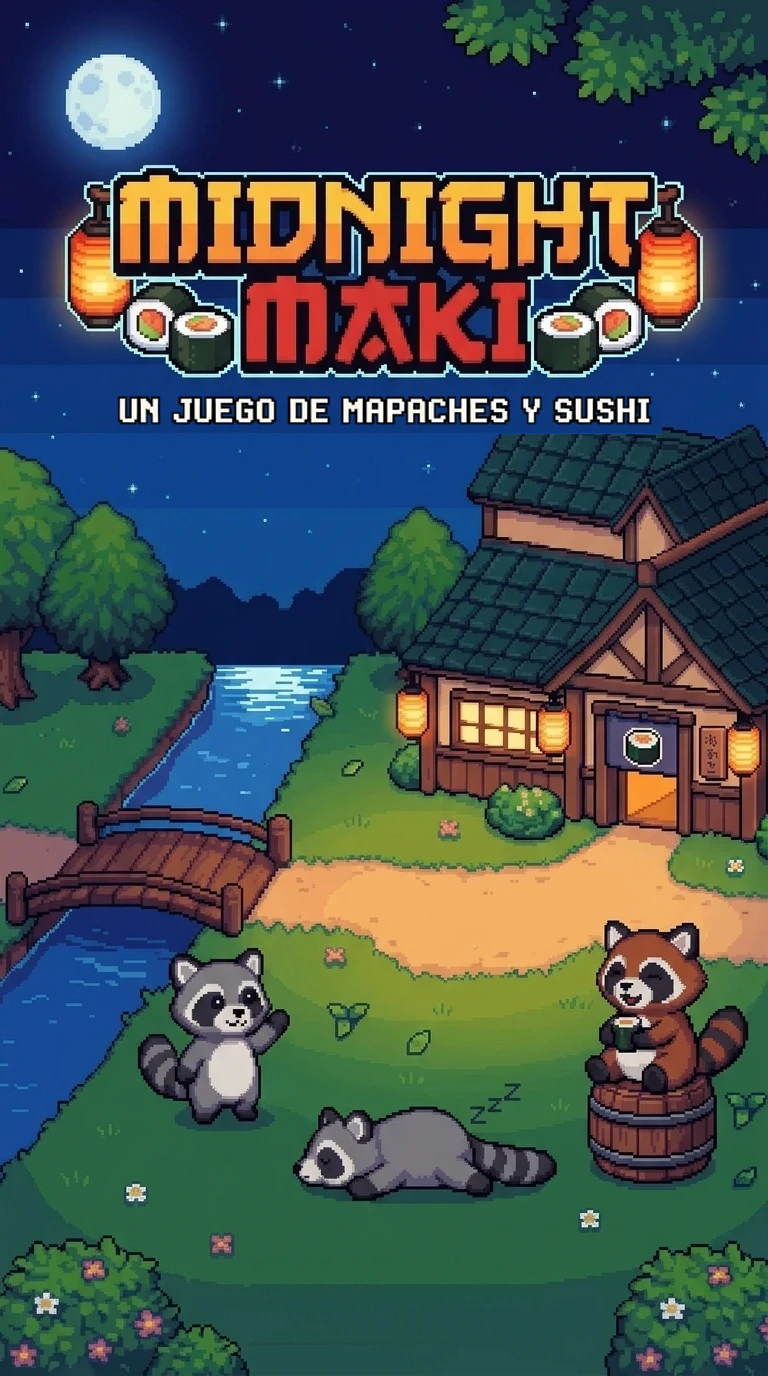
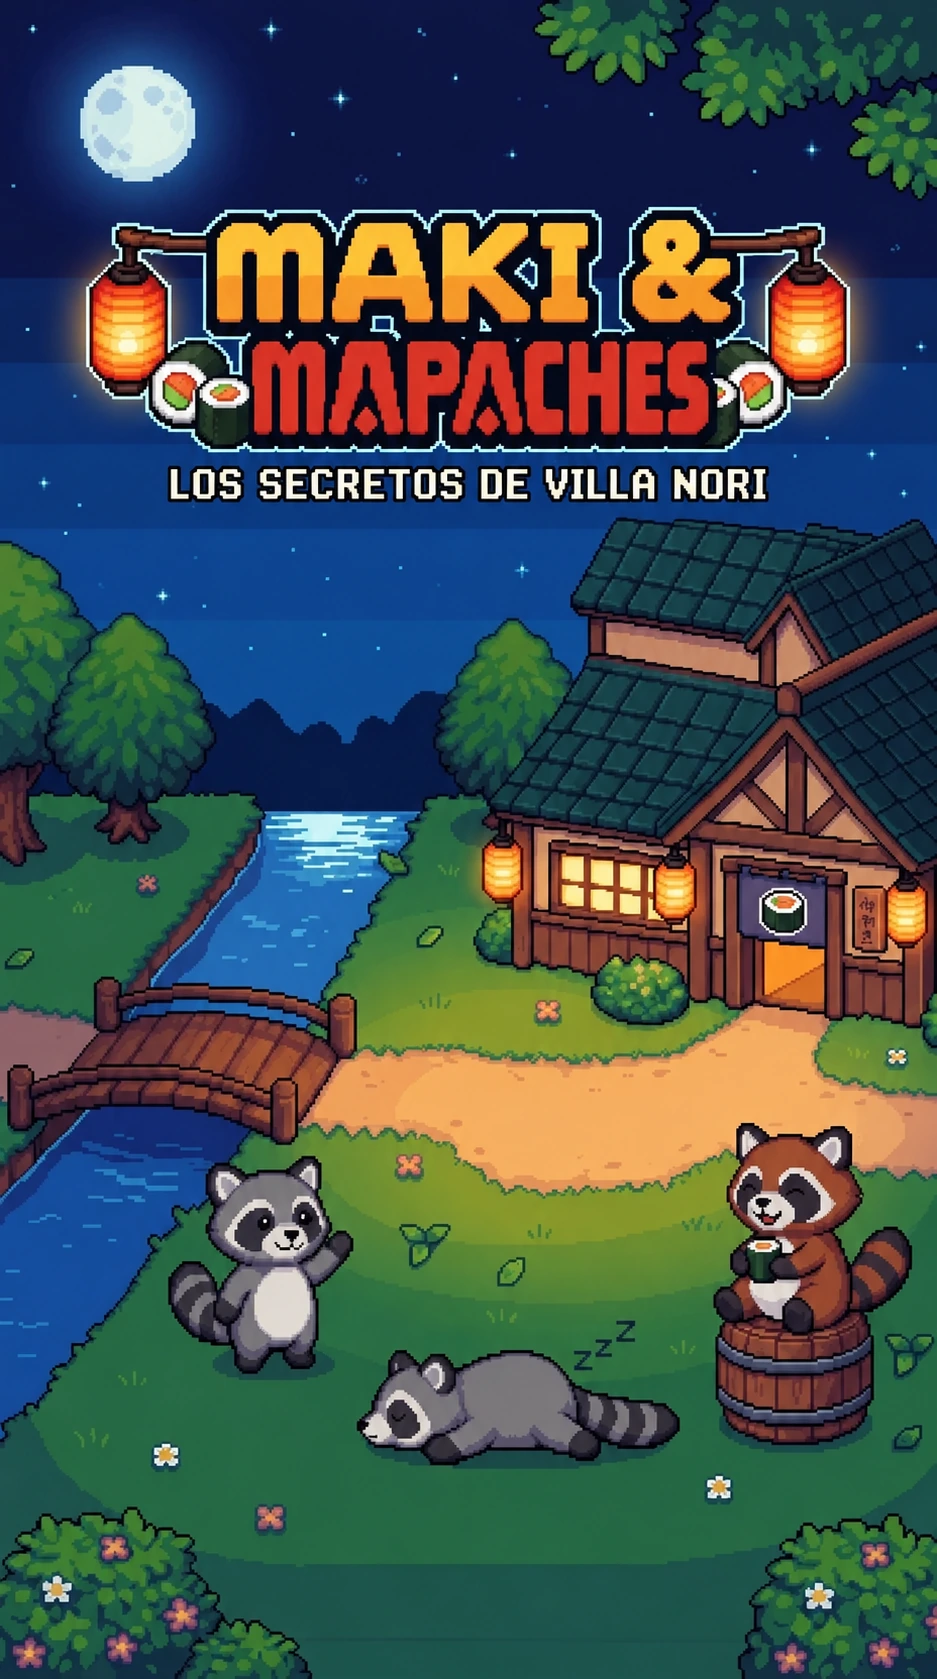
Introduce Maki & Mapaches identity while preserving Midnight Maki restaurant

diff --git a/src/ui/title.ts b/src/ui/title.ts
@@ -9,7 +9,6 @@ import { hasSave, importSaveFile, loadGame, saveFromCode } from '../persistence/
 import { openCreator } from './creator';
 import { confirmBox, h, hideBoot, panel, toast, uiRoot } from './dom';
 import { openSettings } from './settingsPanel';
-import { skinIconEl } from './skin';
 
 /** Where the animated touches sit, in pixels of each illustration (768x1376 vertical, 1376x768 horizontal). */
 interface Layout {
@@ -116,7 +115,7 @@ export async function showTitle(phaser: Phaser.Game) {
 
   // ---- artwork, framed so that nothing is ever cropped (the logo is part of the picture)
   const back = h('img', { class: 'tt-back', alt: '', draggable: 'false' }) as HTMLImageElement;
-  const img = h('img', { class: 'tt-img', alt: 'Midnight Maki', draggable: 'false' }) as HTMLImageElement;
+  const img = h('img', { class: 'tt-img', alt: 'Maki & Mapaches: Pip, Spicy y Rigg junto a Midnight Maki', draggable: 'false' }) as HTMLImageElement;
   let artworkReady!: () => void;
   const artwork = new Promise<void>(resolve => { artworkReady = resolve; });
   const fx = h('div', { class: 'tt-fx' });
@@ -163,13 +162,7 @@ export async function showTitle(phaser: Phaser.Game) {
   img.onerror = () => { root.classList.add('no-bg'); artworkReady(); };
 
   // ---- fallback logo (only visible when the illustration cannot be loaded)
-  const logo = h(
-    'div',
-    { class: 'title-logo mm-logo tt-logo-fallback' },
-    h('div', { class: 'logo-row' }, skinIconEl('lantern', 'logo-lantern'), h('div', { class: 't1' }, ...[...'MIDNIGHT'].map((ch, i) => h('span', { class: 'wave', style: { animationDelay: i * 0.08 + 's' } }, ch))), skinIconEl('lantern', 'logo-lantern')),
-    h('div', { class: 'logo-row' }, skinIconEl('maki', 'logo-maki'), h('div', { class: 't1 red' }, ...[...'MAKI'].map((ch, i) => h('span', { class: 'wave', style: { animationDelay: 0.7 + i * 0.08 + 's' } }, ch))), skinIconEl('maki', 'logo-maki')),
-    h('div', { class: 't2' }, 'Los secretos de Villa Nori'),
-  );
+  const logo = brandLogo('title-logo mm-logo tt-logo-fallback');
 
   // ---- menu, revealed after the first tap
   const btn = (label: string, cls: string, span: number, fn: () => void) => {
@@ -228,11 +221,19 @@ function credits() {
     body: h(
       'div',
       { class: 'col', style: { lineHeight: '1.5' } },
-      h('p', null, h('b', null, 'Midnight Maki: Los secretos de Villa Nori')),
+      h('p', null, h('b', null, 'Maki & Mapaches: Los secretos de Villa Nori')),
       h('p', null, 'Un regalo para Sofi, de Santi.'),
-      h('p', null, 'Arte pixel, música y sonidos generados por el propio juego: todo es original.'),
+      h('p', null, 'Ilustraciones pixel art, música y sonidos para Villa Nori.'),
       h('p', null, 'Hecho con Phaser, TypeScript y Vite. Tipografía: Pixelify Sans (OFL).'),
       h('p', { class: 'muted' }, 'Pip, Spicy Beacon y Rigg te mandan saludos.'),
     ),
   });
+}
+
+function brandLogo(className: string) {
+  return h('div', { class: className, 'aria-label': 'Maki & Mapaches' },
+    h('div', { class: 'brand-top' }, 'MAKI ', h('span', null, '&')),
+    h('div', { class: 'brand-bottom' }, 'MAPACHES'),
+    h('div', { class: 'brand-subtitle' }, 'Los secretos de Villa Nori'),
+    h('div', { class: 'brand-family' }, 'Pip · Spicy Beacon · Rigg'));
 }

diff --git a/src/ui/styles.css b/src/ui/styles.css
@@ -907,3 +907,36 @@ html, body { -webkit-touch-callout: none; overscroll-behavior: none; }
   .recipe-card { padding: 6px; }
 }
 .kitchen-tray .tray-plate { display: flex; align-items: center; gap: 6px; background: #fff7e0; border: 2px solid #c9a24a; border-radius: 8px; padding: 4px 8px; }
+
+/* Public identity: readable pixel lettering when the illustrated title cannot load. */
+.brand-top, .brand-bottom { font-size: calc(var(--u) * 84); color: #f2c66d; text-shadow: calc(var(--u) * 4) calc(var(--u) * 5) #5d322c; letter-spacing: calc(var(--u) * 3); }
+.brand-top span { color: #f6ecd6; }
+.brand-bottom { color: #dd8b87; }
+.brand-subtitle { color: #f6ecd6; font-size: calc(var(--u) * 24); margin-top: calc(var(--u) * 12); }
+.brand-family { color: #b8d3b3; font-size: calc(var(--u) * 20); margin-top: calc(var(--u) * 8); }
+.tt-logo-fallback { --u: 1px; }
+.tt-logo-fallback .brand-top, .tt-logo-fallback .brand-bottom { font-size: clamp(30px, 9vw, 70px); }
+.tt-logo-fallback .brand-subtitle, .tt-logo-fallback .brand-family { font-size: 16px; }
+
+/* NoriPhone is a navigation shell around the existing game interfaces. */
+.panel.phone-shell { width: min(410px, 100%); }
+.phone-shell .panel-body { padding: 10px; }
+.noriphone { padding: 10px; border: 3px solid #59432e; border-radius: 6px; background: #ebdfc0; color: #493020; animation: phone-open 140ms ease-out; }
+.phone-status { display: flex; align-items: center; justify-content: space-between; padding-bottom: 6px; border-bottom: 2px solid #bc9870; font-variant-numeric: tabular-nums; }
+.phone-greeting { padding: 10px 0; line-height: 1.3; }
+.phone-greeting small { display: block; color: #745841; margin-top: 4px; }
+.phone-apps { display: grid; grid-template-columns: repeat(auto-fit, minmax(min(100%, 6em), 1fr)); gap: 10px 6px; }
+.phone-app { display: flex; flex-direction: column; align-items: center; justify-content: flex-start; gap: 5px; border: 0; padding: 4px 2px; min-width: 0; min-height: 76px;
+  background: transparent; color: #493020; font: inherit; font-size: .9em; line-height: 1.1; cursor: pointer; overflow-wrap: anywhere; }
+.phone-app-icon { display: grid; place-items: center; width: 46px; height: 46px; box-sizing: border-box; background: #b4c7ab; border: 3px solid #6b785c; box-shadow: 0 3px 0 #59432e; }
+.phone-app-icon .skin-icon { width: 30px; height: 30px; image-rendering: pixelated; }
+.phone-app:nth-child(3n+2) .phone-app-icon { background: #dfb3b6; border-color: #a7787c; }
+.phone-app:nth-child(3n) .phone-app-icon { background: #dfc395; border-color: #a4875f; }
+.phone-app:hover .phone-app-icon, .phone-app:focus-visible .phone-app-icon { outline: 2px solid #493020; outline-offset: 2px; }
+.phone-app:active .phone-app-icon { transform: translateY(2px); box-shadow: 0 1px 0 #59432e; }
+.phone-help { margin: 14px 0 0; font-size: .8em; }
+.phone-photos { display: grid; grid-template-columns: repeat(auto-fit, minmax(120px, 1fr)); gap: 8px; }
+.phone-photos figure { margin: 0; }
+@keyframes phone-open { from { opacity: .5; transform: translateY(8px); } to { opacity: 1; transform: none; } }
+.reduce-motion .noriphone { animation: none; }
+@media (prefers-reduced-motion: reduce) { .noriphone { animation: none; } }

diff --git a/index.html b/index.html
@@ -7,11 +7,11 @@
     <meta name="apple-mobile-web-app-capable" content="yes" />
     <meta name="mobile-web-app-capable" content="yes" />
     <meta name="apple-mobile-web-app-status-bar-style" content="black-translucent" />
-    <meta name="apple-mobile-web-app-title" content="Midnight Maki" />
+    <meta name="apple-mobile-web-app-title" content="Maki &amp; Mapaches" />
     <link rel="manifest" href="./manifest.webmanifest" />
     <link rel="icon" href="./icons/icon-192.png" />
     <link rel="apple-touch-icon" href="./icons/icon-180.png" />
-    <title>Midnight Maki</title>
+    <title>Maki &amp; Mapaches</title>
     <style>
       /* boot loader: visible before any script runs */
       html, body { margin: 0; background: #1f2440; height: 100%; overflow: hidden; }
@@ -30,7 +30,7 @@
     </style>
   </head>
   <body>
-    <div id="boot" role="status" aria-label="Cargando Midnight Maki" aria-busy="true">
+    <div id="boot" role="status" aria-label="Cargando Maki &amp; Mapaches" aria-busy="true">
       <div class="boot-window" aria-hidden="true"></div>
       <svg class="boot-lantern" viewBox="0 0 16 24" shape-rendering="crispEdges" aria-hidden="true">
         <path fill="#3b2930" d="M7 0h2v4H7zM4 4h8v2H4zM2 6h12v14H2zM4 20h8v2H4zM7 22h2v2H7z"/>
@@ -39,7 +39,7 @@
         <path fill="#f9df9b" d="M7 8h2v10H7z"/>
         <path fill="#a8714a" d="M3 10h10v1H3zM3 15h10v1H3z"/>
       </svg>
-      <h1 class="boot-title">MIDNIGHT MAKI</h1>
+      <h1 class="boot-title">MAKI &amp; MAPACHES</h1>
       <div class="boot-subtitle">Los secretos de Villa Nori</div>
       <div class="tip" id="boot-tip">Encendiendo los faroles…</div>
     </div>

diff --git a/e2e/boot.spec.ts b/e2e/boot.spec.ts
@@ -6,7 +6,7 @@ for (const [width, height] of [[390, 844], [1280, 720]]) {
     await page.route('**/src/main.ts*', async route => { await new Promise<void>(resolve => { release = resolve; }); await route.continue(); });
     await page.goto('/', { waitUntil: 'commit' });
     await expect(page.locator('#boot')).toBeVisible();
-    await expect(page.locator('#boot .boot-title')).toHaveText('MIDNIGHT MAKI');
+    await expect(page.locator('#boot .boot-title')).toHaveText('MAKI & MAPACHES');
     await expect(page.locator('#boot')).toHaveAttribute('aria-busy', 'true');
     await expect(page.locator('#boot .bar, #boot progress')).toHaveCount(0);
     const box = await page.locator('#boot .boot-title').boundingBox();

diff --git a/src/scenes/BootScene.ts b/src/scenes/BootScene.ts
@@ -10,7 +10,7 @@ export class BootScene extends Phaser.Scene {
     const tip = document.getElementById('boot-tip');
     if (tip) tip.textContent = 'Dando color a Villa Nori…';
     ensureTileset(this);
-    if (tip) tip.textContent = 'Abriendo Midnight Maki…';
+    if (tip) tip.textContent = 'Abriendo Maki & Mapaches…';
     this.scene.start('title');
     this.game.events.emit('booted');
   }

diff --git a/public/sw.js b/public/sw.js
@@ -1,5 +1,5 @@
 /* Midnight Maki service worker: offline play after the first visit. */
-const CACHE = 'midnight-maki-v1';
+const CACHE = 'midnight-maki-v2';
 const CORE = ['./', './index.html', './manifest.webmanifest', './icons/icon-192.png', './icons/icon-512.png', './title/title-vertical.webp', './title/title-horizontal.webp'];
 
 self.addEventListener('install', (e) => {

diff --git a/capacitor.config.ts b/capacitor.config.ts
@@ -2,7 +2,7 @@ import type { CapacitorConfig } from '@capacitor/cli';
 
 const config: CapacitorConfig = {
   appId: 'com.santi.midnightmaki',
-  appName: 'Midnight Maki',
+  appName: 'Maki & Mapaches',
   webDir: 'dist',
   backgroundColor: '#1f2440',
   android: {
